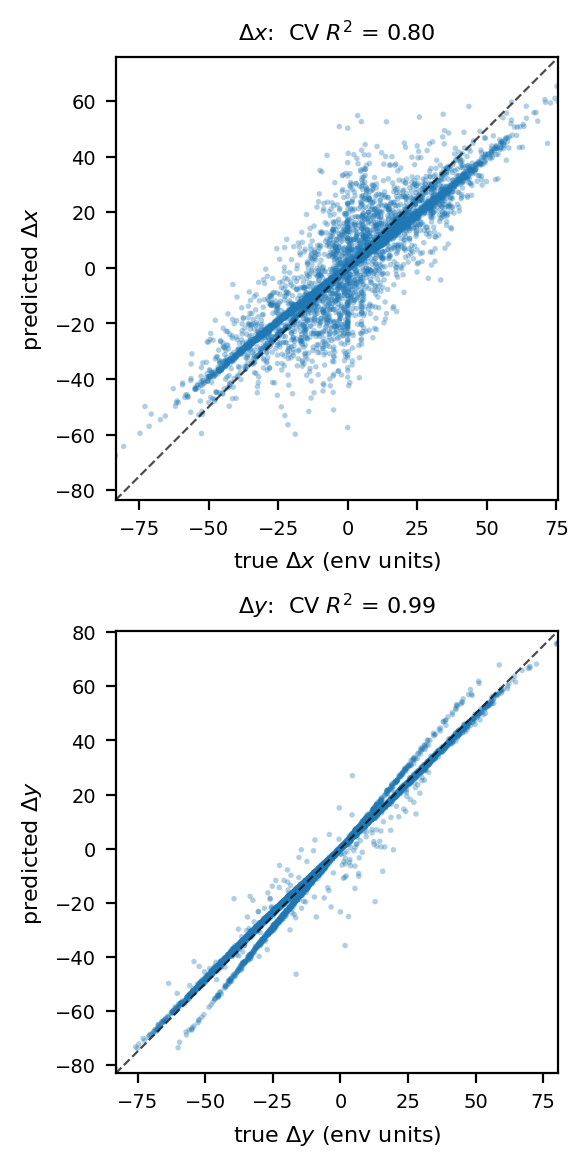
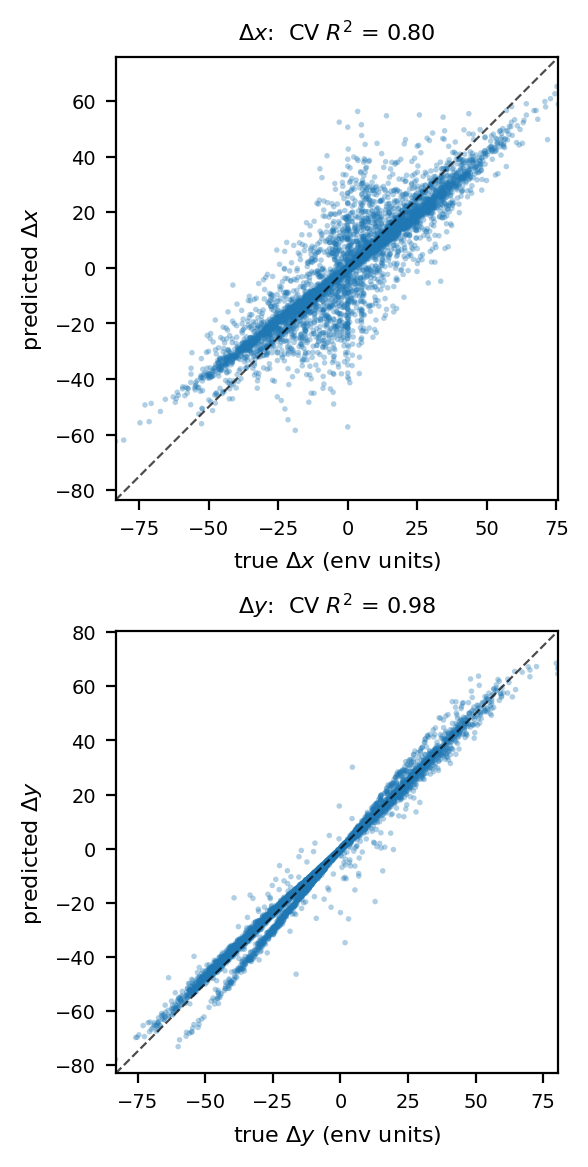
Regenerate latent-analysis figures with the correct checkpoint (epoch-14 tworooms)
Re-ran latent_grid_tsne / macro_action_tsne / macro_probe with models/hierarchical_lewm_epoch_14_tworooms_object.ckpt (previous figures used an earlier Stage-2 checkpoint by mistake). Updated README CV R^2 to match (overall 0.89; dx 0.80, dy 0.98). This model also has near-N(0,1) macro-actions (std ~0.95).

diff --git a/qualitative analysis/latent_analysis/README.md b/qualitative analysis/latent_analysis/README.md
@@ -11,7 +11,7 @@ planning, no training.** Light on GPU and crash-free.
 |---|---|---|
 | `latent_grid_tsne.py` | `figures/latent_grid_tworoom.png` | The **frozen encoder** latent space (shared by flat & hierarchical). A grid of TwoRoom states is encoded and t-SNE'd; coloring by agent (x, y) shows the encoder represents spatial position (two-room topology preserved). Left = physical state grid (the color legend), right = latent t-SNE. |
 | `macro_action_tsne.py` | `figures/macro_action_tworoom.png` | The **hierarchy's own latent**: A_ψ's 8-d macro-action space. Real inter-waypoint action chunks are encoded to macros and t-SNE'd, colored by the chunk's net motion (Δx, Δy). Shows A_ψ organizes macro-actions by direction/magnitude of motion. Also writes the `.npz` the probe needs. |
-| `macro_probe.py` | `figures/macro_probe_tworoom.pdf` (+ `.png`) | **Quantitative** companion: a 5-fold cross-validated linear regression macro (8-d) → net motion (Δx, Δy), with a predicted-vs-true scatter. Reports CV R² (≈0.90; Δy≈0.99, Δx≈0.80) → macros *linearly* encode net motion. |
+| `macro_probe.py` | `figures/macro_probe_tworoom.pdf` (+ `.png`) | **Quantitative** companion: a 5-fold cross-validated linear regression macro (8-d) → net motion (Δx, Δy), with a predicted-vs-true scatter. Reports CV R² (≈0.89; Δy≈0.98, Δx≈0.80) → macros *linearly* encode net motion. |
 
 ## The figures
 
@@ -33,11 +33,11 @@ A_ψ encodes direction/magnitude of motion.
 
 ### 3. Macro-action linear probe — `macro_probe_tworoom.png`
 
-![Linear probe predicted-vs-true net motion: Δx (top, R²=0.80) and Δy (bottom, R²=0.99) against the ideal y=x line.](figures/macro_probe_tworoom.png)
+![Linear probe predicted-vs-true net motion: Δx (top, R²=0.80) and Δy (bottom, R²=0.98) against the ideal y=x line.](figures/macro_probe_tworoom.png)
 
 Quantitative companion to figure 2: a 5-fold cross-validated linear probe from
-each macro-action to its chunk's net motion. Overall CV R²=0.90 (Δx 0.80,
-Δy 0.99); train R² = CV R² (no overfit) → macros *linearly* encode motion.
+each macro-action to its chunk's net motion. Overall CV R²=0.89 (Δx 0.80,
+Δy 0.98); train R² = CV R² (no overfit) → macros *linearly* encode motion.
 Single-column, Overleaf-ready vector at `figures/macro_probe_tworoom.pdf`.
 
 ## Prerequisites